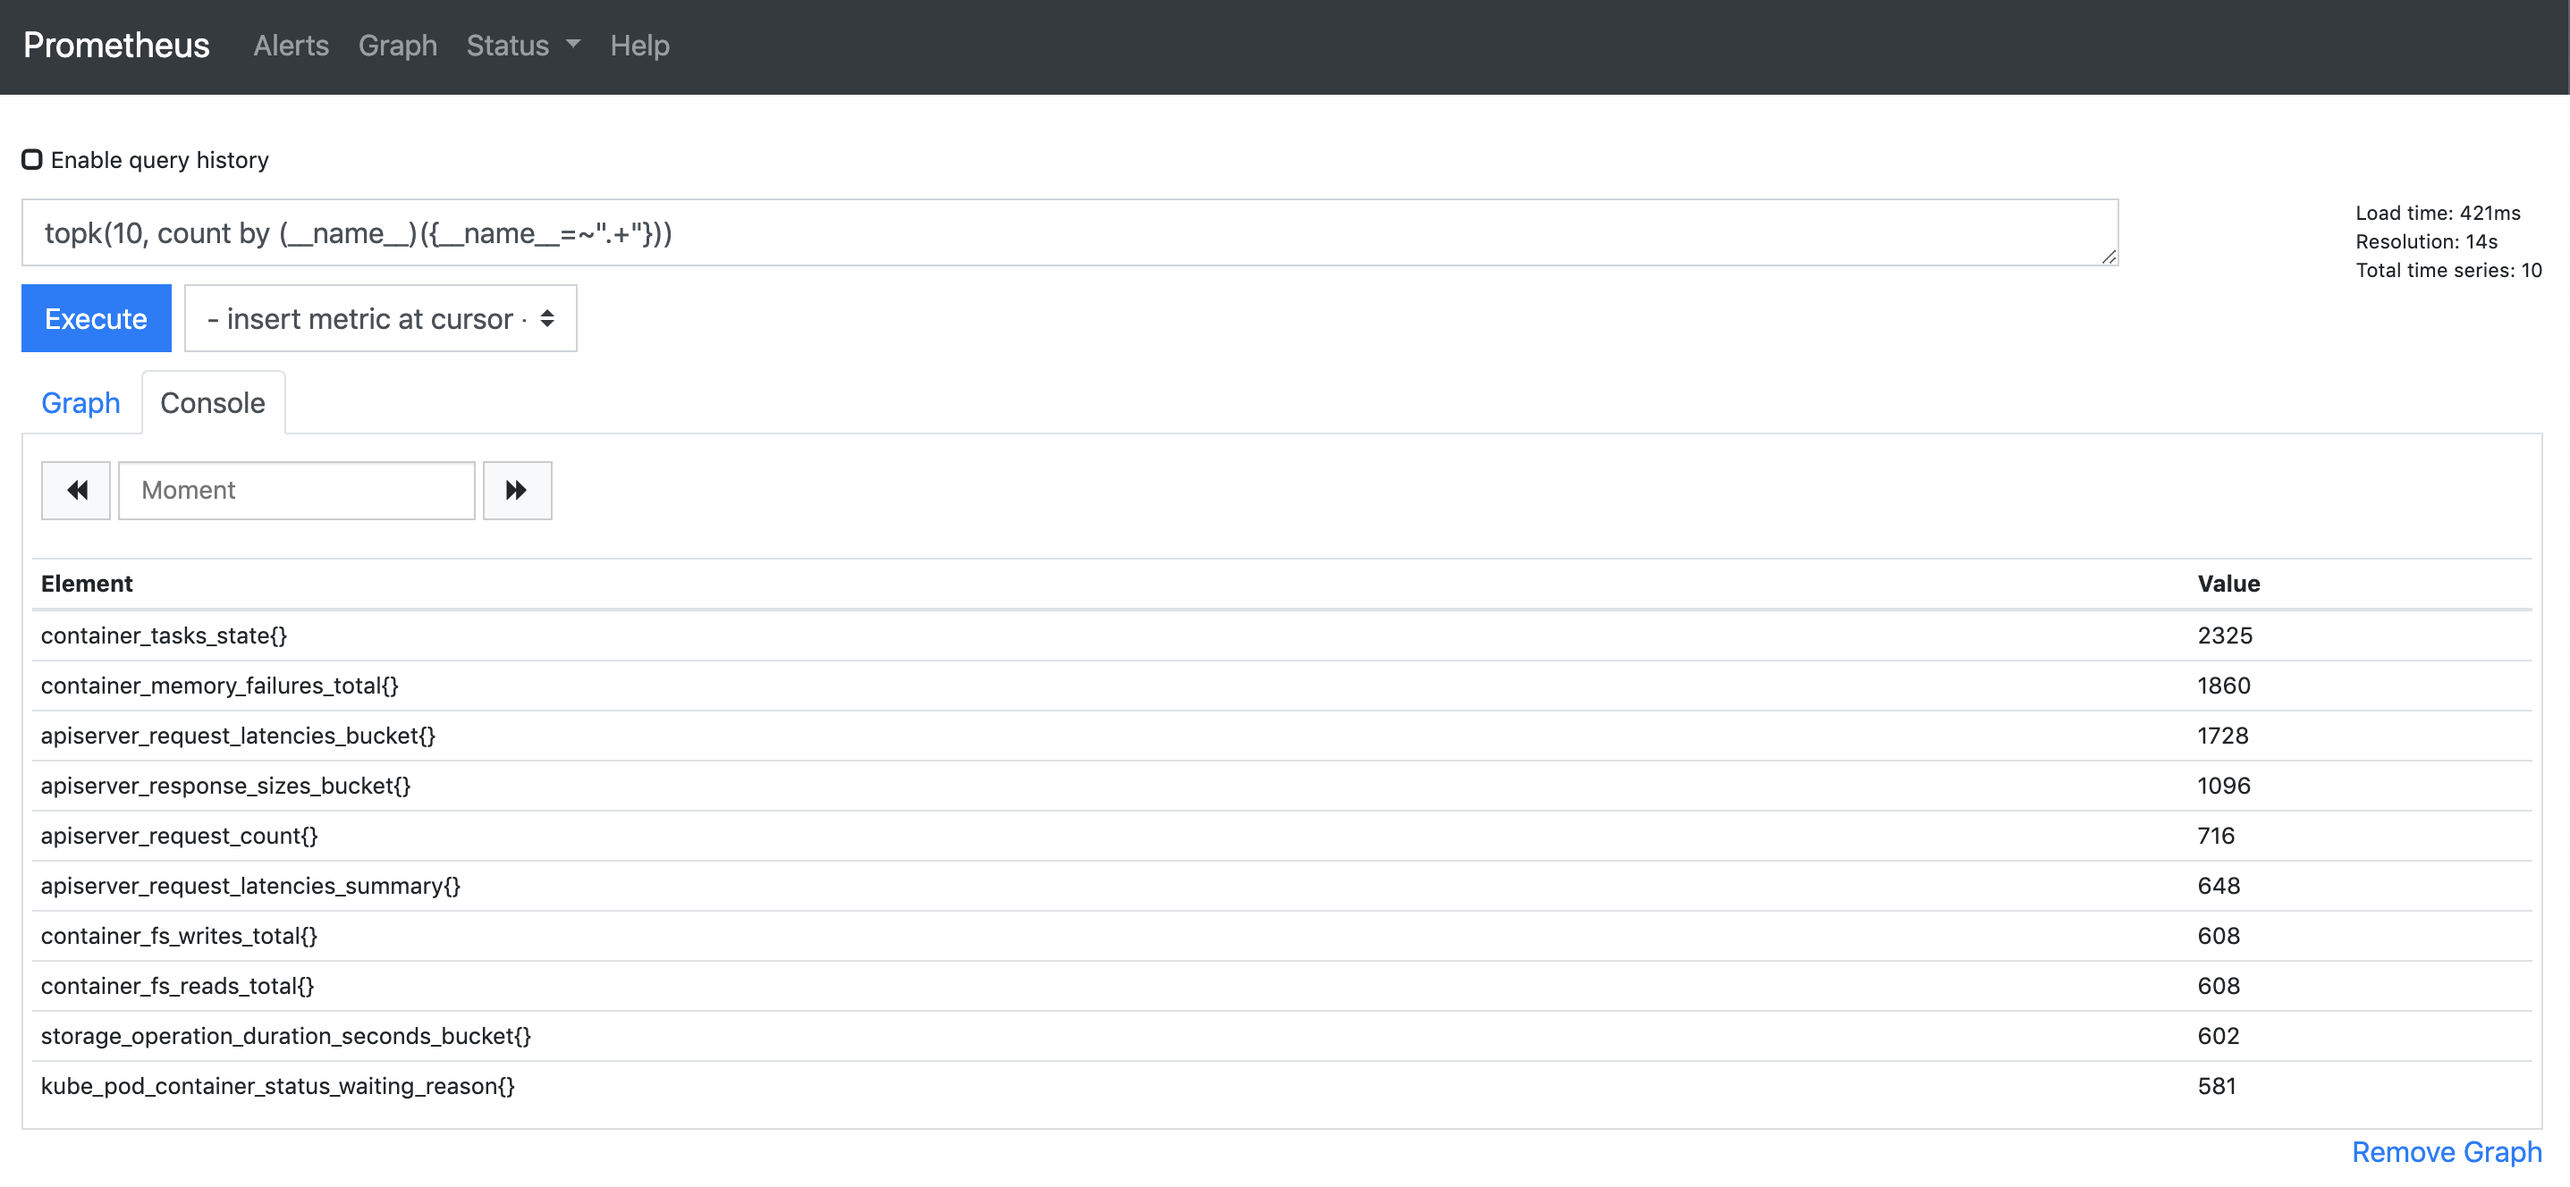
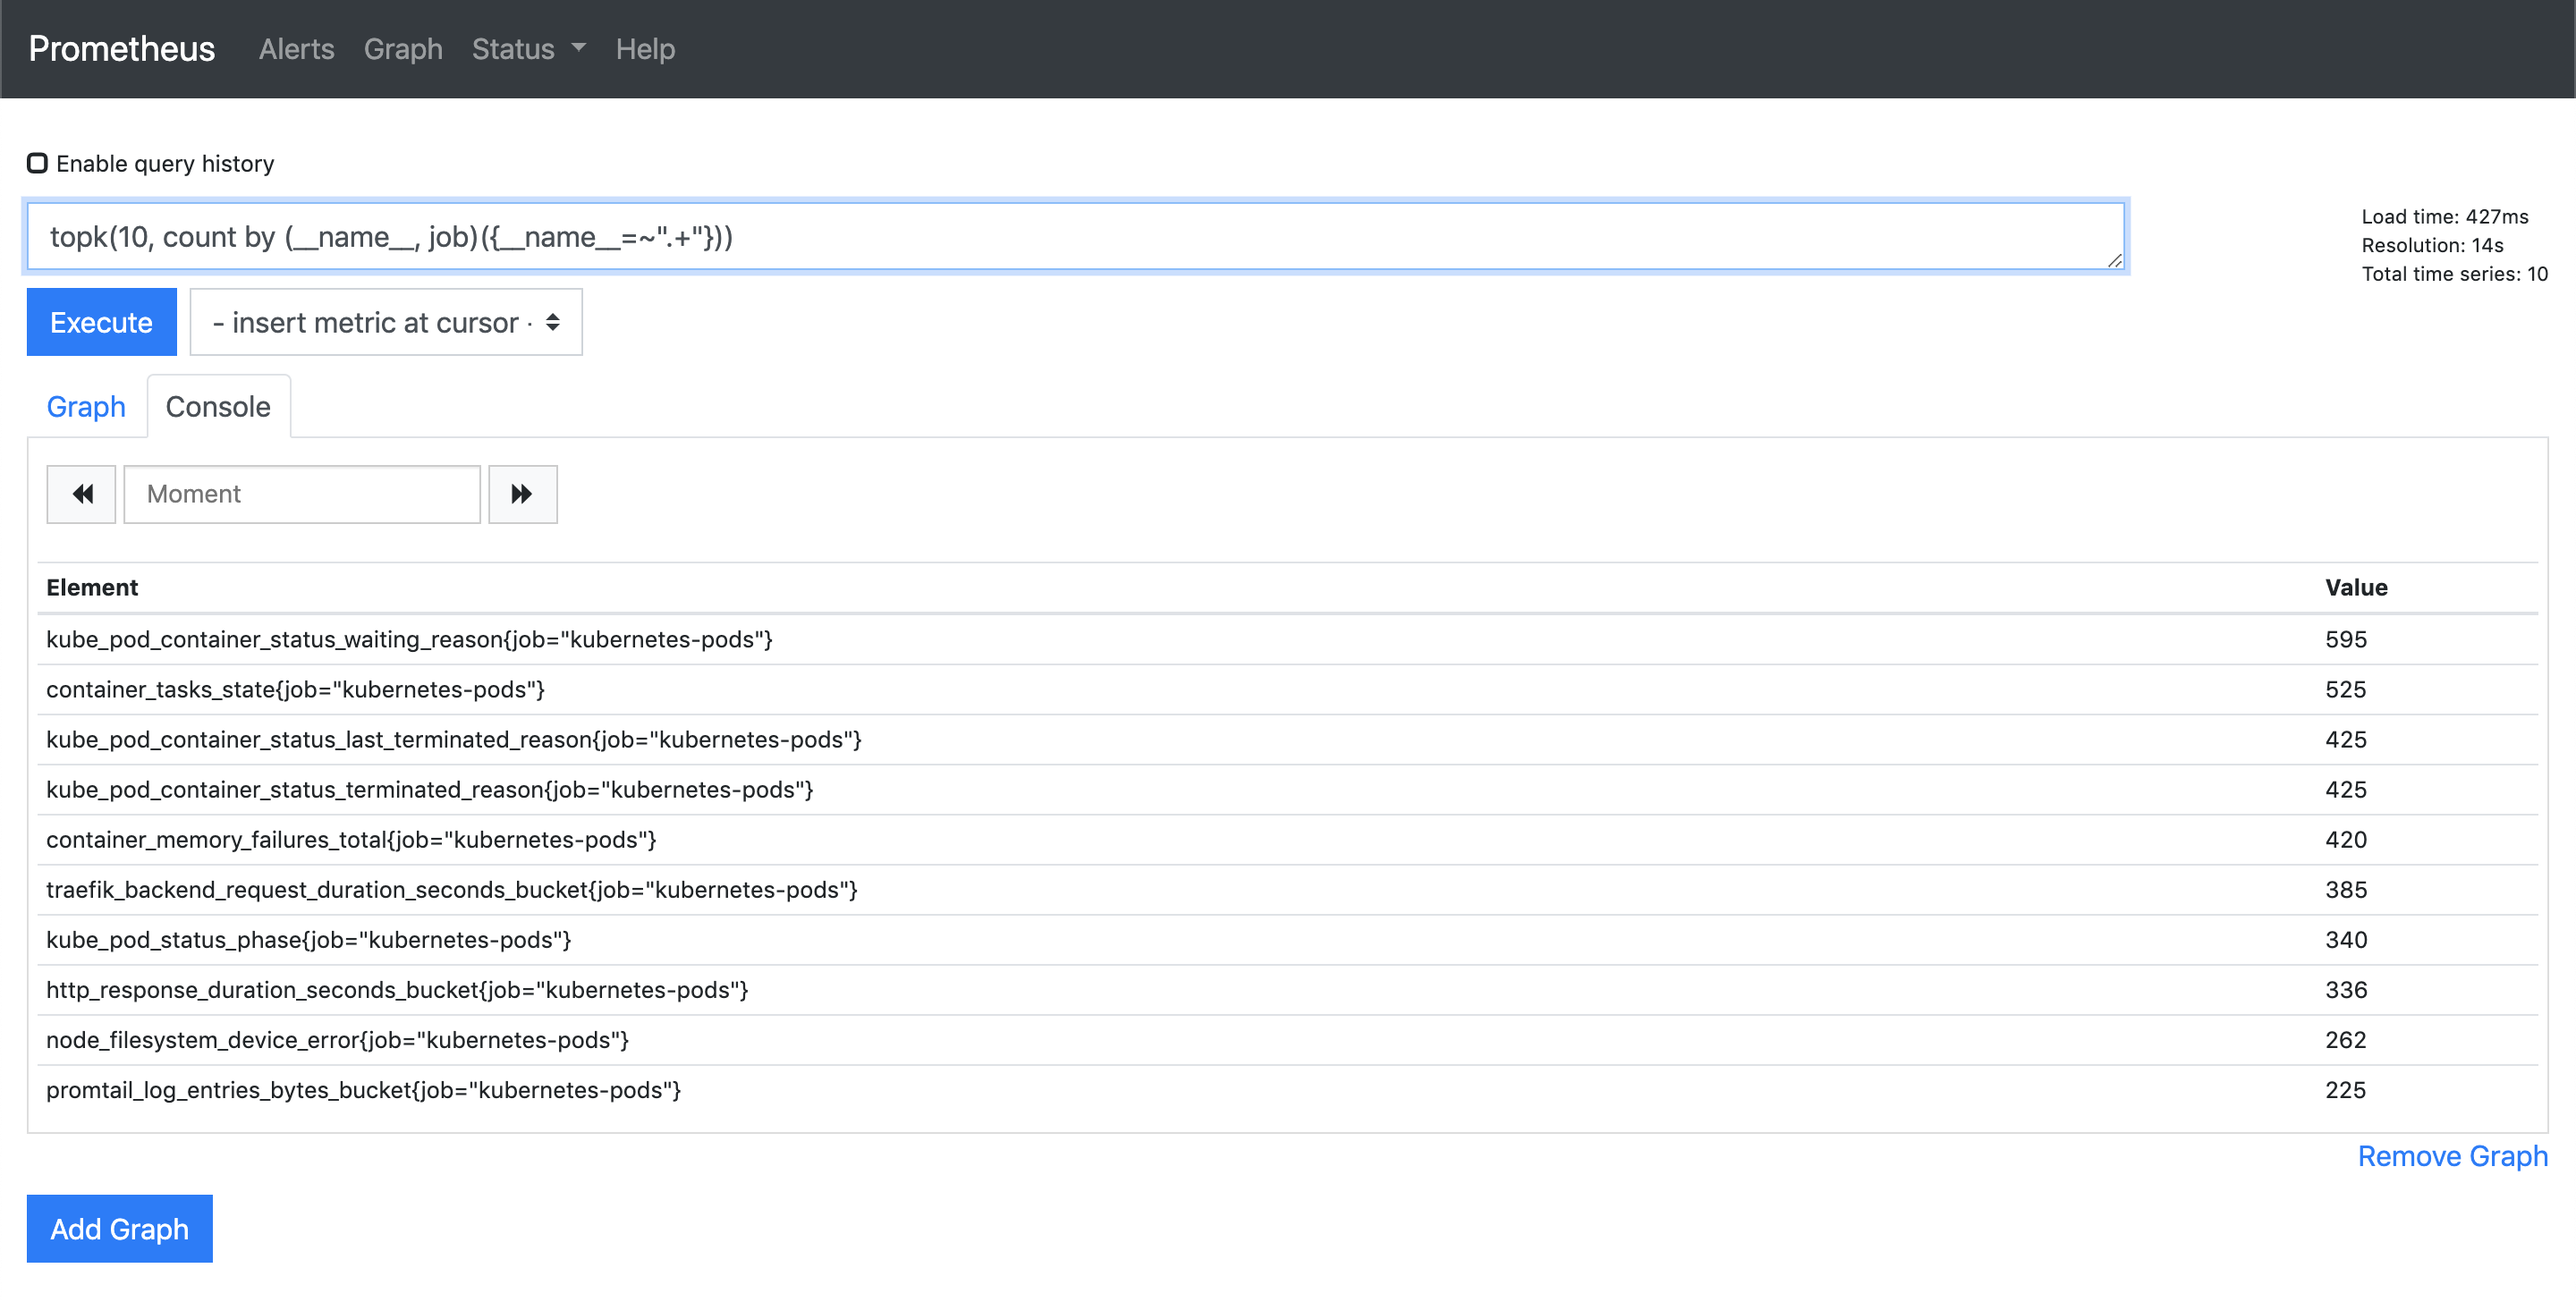
docs: update Prometheus popular series query to include job label

diff --git a/docs/prometheus.md b/docs/prometheus.md
@@ -5,7 +5,11 @@
 Prometheus can run out of memory if there are too many series for it to track and the memory given is too low for initialization in memory. To inspect the most popular series run the following:
 
 ```
-topk(10, count by (__name__)({__name__=~".+"}))
+topk(10, count by (__name__, job)({__name__=~".+"}))
+
+kube_pod_container_status_waiting_reason{job="kubernetes-pods"}	595
+container_tasks_state{job="kubernetes-pods"}	525
+kube_pod_container_status_last_terminated_reason{job="kubernetes-pods"}	425
 ```
 
 ![](images/popular-metrics.png)
